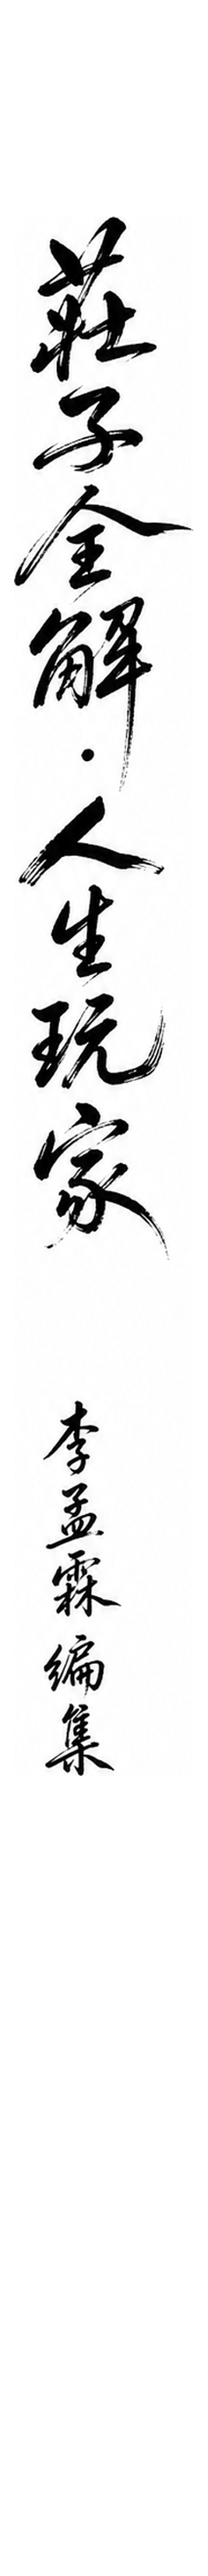
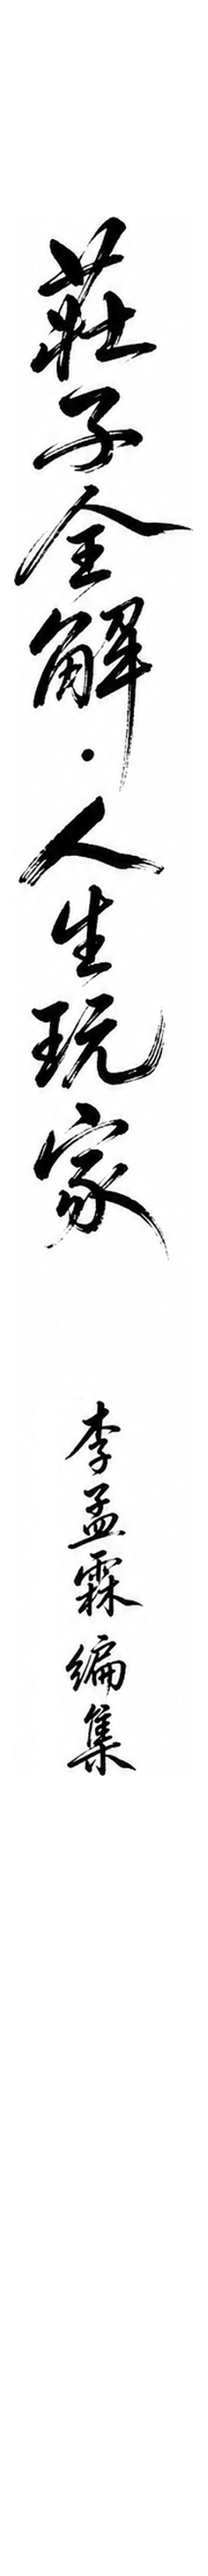
書脊「李孟霖編集」水平置中
書脊圖中署名區塊原先偏左約 29px，已與書名同一中軸對齊；
並重產書脊／封面展開 PDF。

Changed region(s): [[0.2097, 0.5295, 0.5993, 0.7164]]

diff --git a/streamlit_app/Home.py b/streamlit_app/Home.py
@@ -29,7 +29,7 @@ st.markdown(
 NEXT_BASE = "http://localhost:3000"
 PAGES_BASE = "https://show0621.github.io/zhuangzi-atlas"
 # 下載檔加版本參數，避免 GitHub Pages／瀏覽器快取舊 PDF
-_ASSET_V = "flap-name-light"
+_ASSET_V = "spine-author-center"
 PDF_URL = f"{PAGES_BASE}/downloads/zhuangzi-atlas-print.pdf?v={_ASSET_V}"
 PDF_ALIAS_URL = f"{PAGES_BASE}/downloads/莊子全解-印刷版.pdf?v={_ASSET_V}"
 DOCX_URL = f"{PAGES_BASE}/downloads/zhuangzi-atlas-print.docx?v={_ASSET_V}"